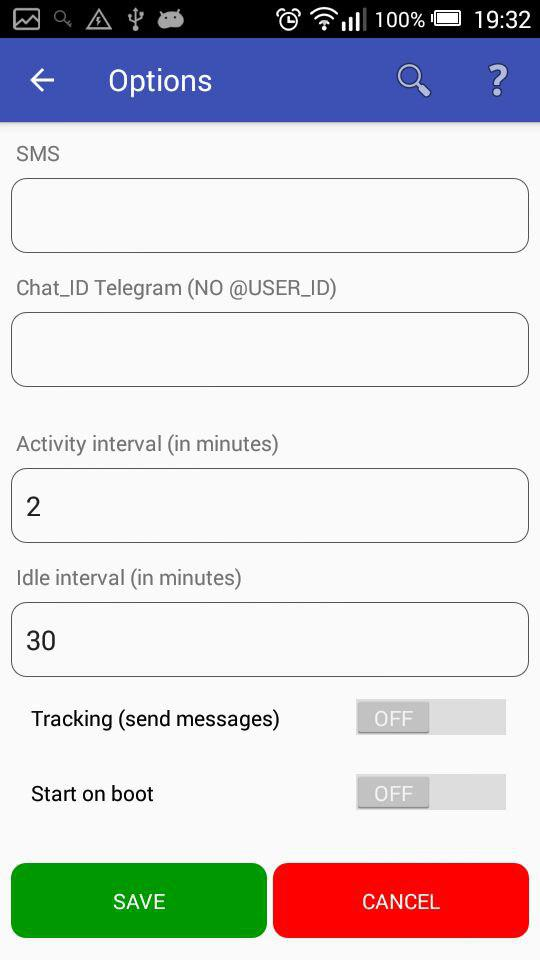
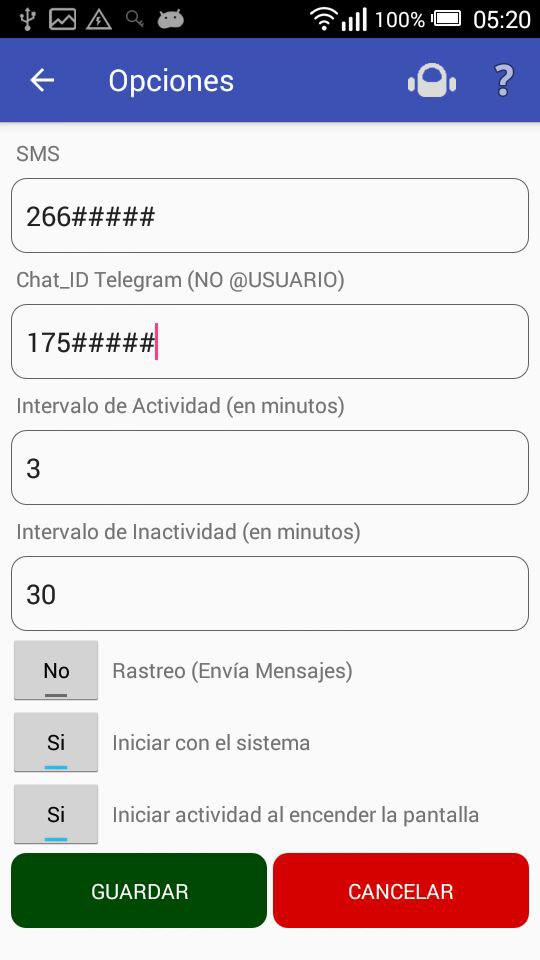
version 1.3

diff --git a/app/src/main/java/pc/javier/seguime/ActividadOpciones.java b/app/src/main/java/pc/javier/seguime/ActividadOpciones.java
@@ -13,6 +13,7 @@ import android.view.View;
 import android.widget.EditText;
 import android.widget.Switch;
 import android.widget.Toast;
+import android.widget.ToggleButton;
 
 import pc.javier.seguime.interfaz.Aplicacion;
 import pc.javier.seguime.utilidades.Parametro;
@@ -25,8 +26,10 @@ public class ActividadOpciones extends AppCompatActivity {
     EditText Ttelegram ;
     EditText Tactividad ;
     EditText Tinactividad;
-    Switch Srastreo;
-    Switch Siniciar;
+    ToggleButton Brastreo;
+    ToggleButton Biniciar;
+    ToggleButton Bactivar;
+
 
 
 
@@ -39,8 +42,9 @@ public class ActividadOpciones extends AppCompatActivity {
         Ttelegram = (EditText) findViewById(R.id.opciones_telegram);
         Tactividad = (EditText) findViewById(R.id.opciones_actividad);
         Tinactividad = (EditText) findViewById(R.id.opciones_inactividad);
-        Srastreo = (Switch) findViewById(R.id.opciones_rastreo);
-        Siniciar = (Switch) findViewById(R.id.opciones_iniciarConElSistema);
+        Brastreo = (ToggleButton) findViewById(R.id.opciones_rastreo);
+        Biniciar = (ToggleButton) findViewById(R.id.opciones_iniciarConElSistema);
+        Bactivar= (ToggleButton) findViewById(R.id.opciones_activarconpantalla);
 
         preferencias = getSharedPreferences("preferencias", MODE_PRIVATE);
         cargarOpciones();
@@ -72,10 +76,10 @@ public class ActividadOpciones extends AppCompatActivity {
     public void guardar (View v) {
 
         if (!Aplicacion.Registrada())
-            if (Siniciar.isChecked()) {
+            if (Biniciar.isChecked()) {
                 Toast.makeText(this, R.string.requiereregistro, Toast.LENGTH_LONG).show();
-                Siniciar.setChecked(false);
-                Siniciar.setEnabled(false);
+                Biniciar.setChecked(false);
+                Biniciar.setEnabled(false);
                 return ;
             }
 
@@ -97,14 +101,16 @@ public class ActividadOpciones extends AppCompatActivity {
         int inactividad = preferencias.getInt("inactividad", 0);
         boolean rastreo = preferencias.getBoolean("rastreo", false);
         boolean iniciar = preferencias.getBoolean("iniciar", false);
+        boolean activar = preferencias.getBoolean("activarconpantalla", false);
 
 
         Tsms.setText(sms);
         Ttelegram.setText(telegram);
         Tactividad.setText(String.valueOf(actividad));
         Tinactividad.setText(String.valueOf(inactividad));
-        Srastreo.setChecked(rastreo);
-        Siniciar.setChecked(iniciar);
+        Brastreo.setChecked(rastreo);
+        Biniciar.setChecked(iniciar);
+        Bactivar.setChecked(activar);
 
     }
 
@@ -126,8 +132,9 @@ public class ActividadOpciones extends AppCompatActivity {
 
         String sms =  Tsms.getText().toString();
         String telegram = Ttelegram.getText().toString();
-        boolean rastreo = Srastreo.isChecked();
-        boolean iniciar = Siniciar.isChecked();
+        boolean rastreo = Brastreo.isChecked();
+        boolean iniciar = Biniciar.isChecked();
+        boolean activar = Bactivar.isChecked();
 
 
 
@@ -143,6 +150,7 @@ public class ActividadOpciones extends AppCompatActivity {
 
         editor.putBoolean("rastreo", rastreo);
         editor.putBoolean("iniciar", iniciar);
+        editor.putBoolean("activarconpantalla", activar);
         editor.commit();
         return true;
     }
@@ -203,7 +211,7 @@ public class ActividadOpciones extends AppCompatActivity {
         }
 
         if (!Aplicacion.Registrada())
-            Siniciar.setChecked(false);
+            Biniciar.setChecked(false);
 
     }
 

diff --git a/app/src/main/java/pc/javier/seguime/control/ReceptorUsuarioActivo.java b/app/src/main/java/pc/javier/seguime/control/ReceptorUsuarioActivo.java
@@ -8,6 +8,7 @@ import android.util.Log;
 import android.widget.Toast;
 
 import pc.javier.seguime.interfaz.Aplicacion;
+import pc.javier.seguime.utilidades.Parametro;
 
 
 /**
@@ -19,13 +20,29 @@ public class ReceptorUsuarioActivo extends BroadcastReceiver {
     @Override
     public void onReceive(Context contexto, Intent intent) {
 
+        Log.d("USUARIO ACTIVO","se intentara reiiciar el servicio");
+        if (Parametro.aplicacion == null)
+            return;
 
-        boolean aplicacionActiva = Aplicacion.preferenciaBooleano("activa");
-        if (Aplicacion.preferenciaBooleano("pantalladesbloqueada"))
-            if (aplicacionActiva) {
+        Log.d("USUARIO ACTIVO","hay aplicacion");
+
+        if (!Parametro.aplicacion.servicioActivo())
+            return;
+
+        Log.d("USUARIO ACTIVO","hay servicio");
 
 
-            }
+
+        if (!Aplicacion.preferenciaBooleano("activa"))
+            return;
+
+        Log.d("USUARIO ACTIVO","preferencia activada");
+
+
+        if (Aplicacion.preferenciaBooleano("activarconpantalla"))
+            Parametro.aplicacion.ReiniciarServicio();
+
+
 
     }
 }

diff --git a/app/src/main/java/pc/javier/seguime/MainActivity.java b/app/src/main/java/pc/javier/seguime/MainActivity.java
@@ -95,14 +95,30 @@ public class MainActivity extends AppCompatActivity {
 
 
     @Override
+    public void openOptionsMenu() {
+        super.openOptionsMenu();
+
+    }
+
+    @Override
     public boolean onPrepareOptionsMenu(Menu menu) {
-        ((TextView) findViewById(R.id.menu_usuario)).setText(Aplicacion.Usuario());
+
+
+
         return true;
     }
 
-    public boolean onCreateOptionsMenu (Menu menu) {
+
+
+
+    @Override
+    public boolean onCreateOptionsMenu(Menu menu) {
         getMenuInflater().inflate(R.menu.menu_principal,menu);
-        return true;
+        TextView textViewUsuario = (TextView) findViewById(R.id.menu_usuario);
+        if (textViewUsuario != null)
+            textViewUsuario.setText(Aplicacion.Usuario());
+
+        return super.onCreateOptionsMenu(menu);
     }
 
     @Override
@@ -250,6 +266,7 @@ public class MainActivity extends AppCompatActivity {
 
         if(findViewById(R.id.menu_usuario) != null)
             ((TextView) findViewById(R.id.menu_usuario)).setText(Aplicacion.Usuario());
+
 
 
 

diff --git a/app/src/main/java/pc/javier/seguime/interfaz/Aplicacion.java b/app/src/main/java/pc/javier/seguime/interfaz/Aplicacion.java
@@ -95,7 +95,13 @@ public class Aplicacion {
 
     // Pone en marcha la aplicacion (Servicios)
     public void iniciarServicio() {
-        Toast.makeText(contexto, contexto.getString(R.string.principal_aplicacion) + " \uD83D\uDCE1", Toast.LENGTH_LONG).show();
+
+        if (!sesionIniciada()) {
+            mensajeLog ( "Se intento iniciar la aplicacion sin sesion :D");
+            return;
+        }
+
+        // Toast.makeText(contexto, contexto.getString(R.string.principal_aplicacion) + " \uD83D\uDCE1", Toast.LENGTH_LONG).show();
         preferenciaBooleano("activa", true);
         mensajeLog ( "Iniciando Servicio");
         if (servicioActivo())
@@ -126,6 +132,7 @@ public class Aplicacion {
         if (servicioActivo())
             contexto.stopService(servicio);
         iniciarServicio();
+        preferenciaBooleano("activa", true);
     }
 
 

diff --git a/CHANGELOG.md b/CHANGELOG.md
@@ -1,9 +1,13 @@
 # Seguime 
 
+### [1.3] - 15 de Julio de 2018
+Agregado: Opción para reiniciar los contadores internos (Servicio) al detectar usuario en el sistema (encender la pantalla).
+Modificado: Diseño botón principal.
+
 ### [1.2] - 12 de Julio de 2018
-# Modificado: compatible con Android 3.0 (Api 11).
-# Correcciones: mejoras en diseño compatible con diferentes pantallas.
-# Agregado: Botón para acceder al menú lateral.
+Modificado: compatible con Android 3.0 (Api 11).
+Correcciones: mejoras en diseño compatible con diferentes pantallas.
+Agregado: Botón para acceder al menú lateral.
 
 ### [1.1] - 10 de Julio de 2018
 Agregado: Elimina datos al cerrar sesión.
